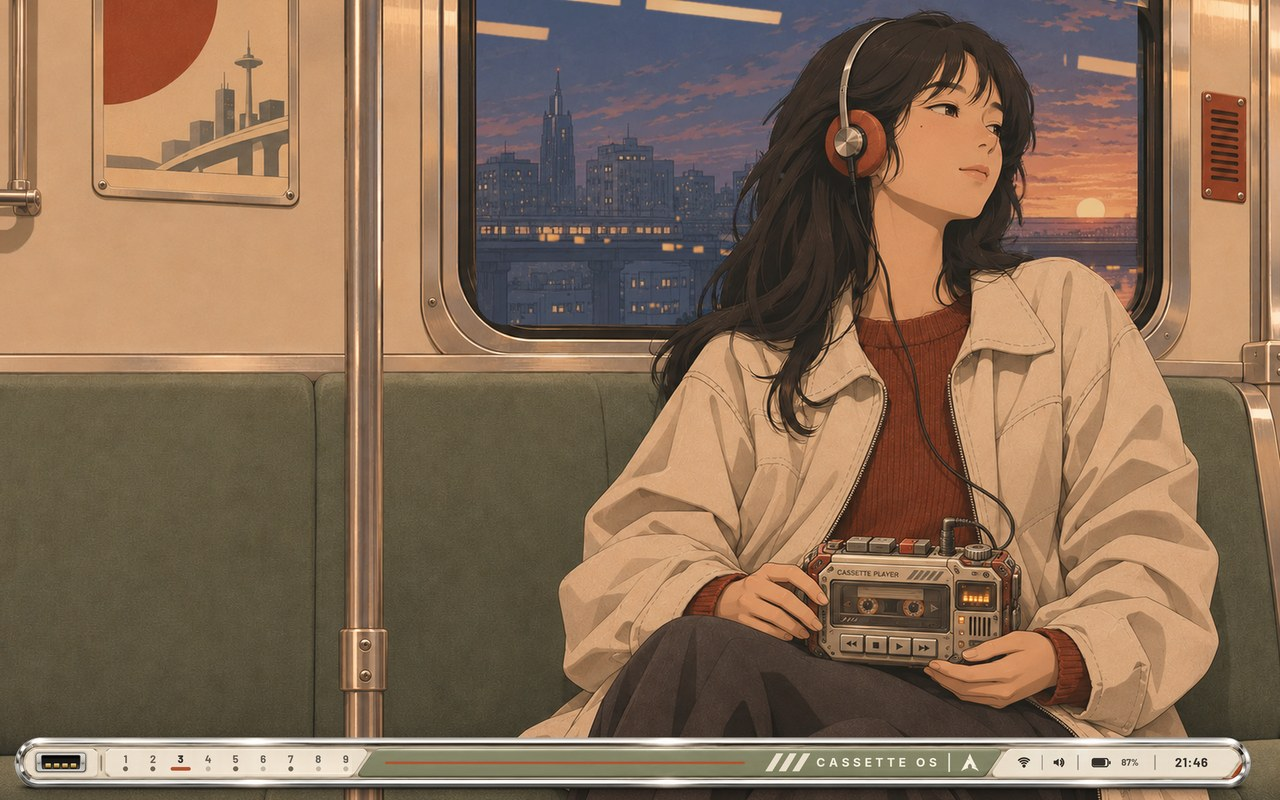
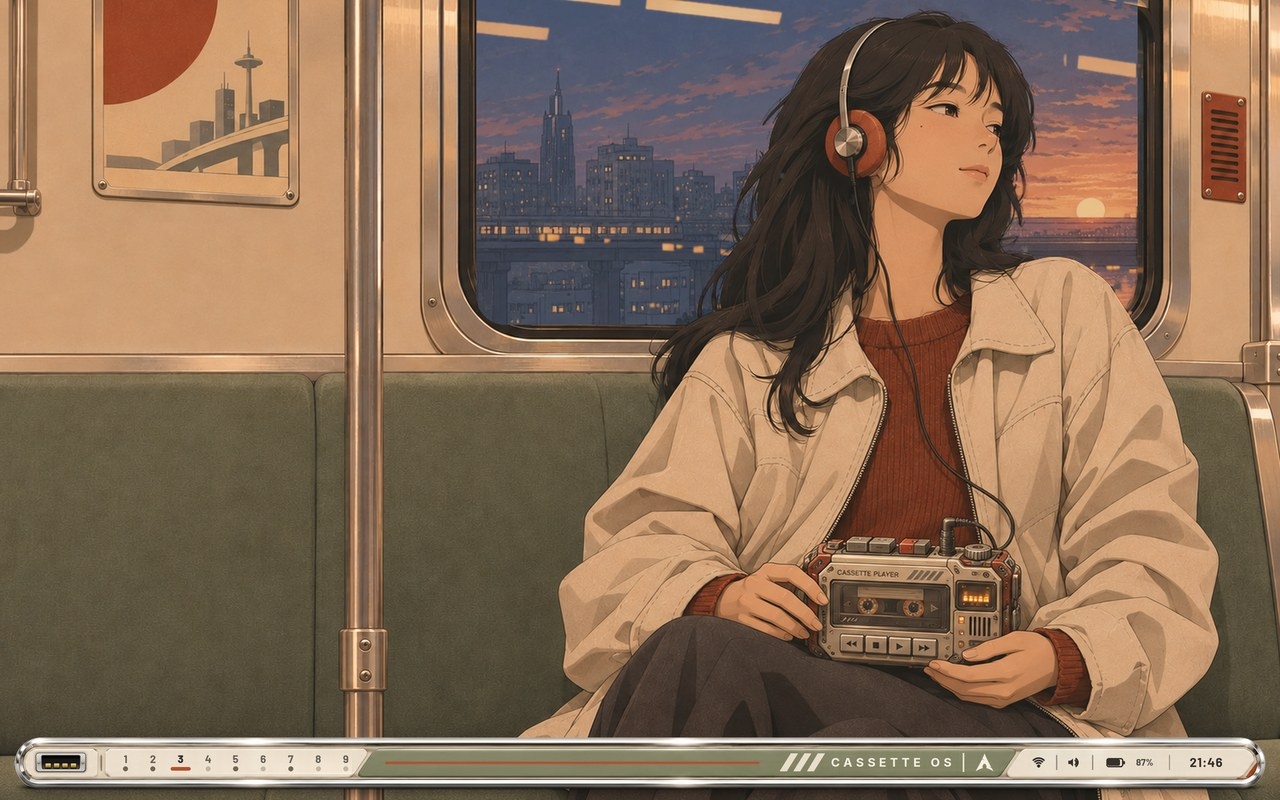
Retro Futurism taskbar: its right end lines up with the frames too
The bar's pieces have 15 px of air before the tube and 13 after (not 15
and 15); the stretch is now worked out from the tube's own length.

Claude-Session: https://claude.ai/code/session_015VvhJ21Y4bjWDEYJNoFXMP

Changed region(s): [[0.5938, 0.9062, 1.0, 1.0], [0.5, 0.9688, 0.5625, 1.0], [0.5, 0.9062, 0.5625, 0.9375]]

diff --git a/themes/retro-futurism/home/.config/quickshell/modules/Taskbar.qml b/themes/retro-futurism/home/.config/quickshell/modules/Taskbar.qml
@@ -61,10 +61,12 @@ PanelWindow {
     // mock-up's y 312 to 440; the tube itself 320 to 418), the left one
     // from x 20 to 800, the right one from 900 to 2152.
     readonly property real side: Theme.frameMargin         // its ends line up with a window's frame
-    readonly property real s: Math.min(Theme.taskbarScale, (width - 2 * side) / 2032)
+    // (the pieces span the mock-up's x 20 to 2152; the tube itself 35 to
+    // 2139: 15 px of air before it, 13 after, 2004 of tube)
+    readonly property real s: Math.min(Theme.taskbarScale, (width - 2 * side) / 2004)
     readonly property real u: s / 0.6                      // for things sized by eye at 0.6
     readonly property real leftX: side - 15 * s            // (the piece has 15 px of air before the tube)
-    readonly property real fillW: Math.max(0, width - 2 * side - 2032 * s)
+    readonly property real fillW: Math.max(0, width - 2 * side - 2004 * s)
     readonly property real rightX: leftX + 780 * s + fillW
     function lx(x) { return leftX + (x - 20) * s; }       // a point of the left piece
     function rx(x) { return rightX + (x - 900) * s; }     // ... of the right piece
